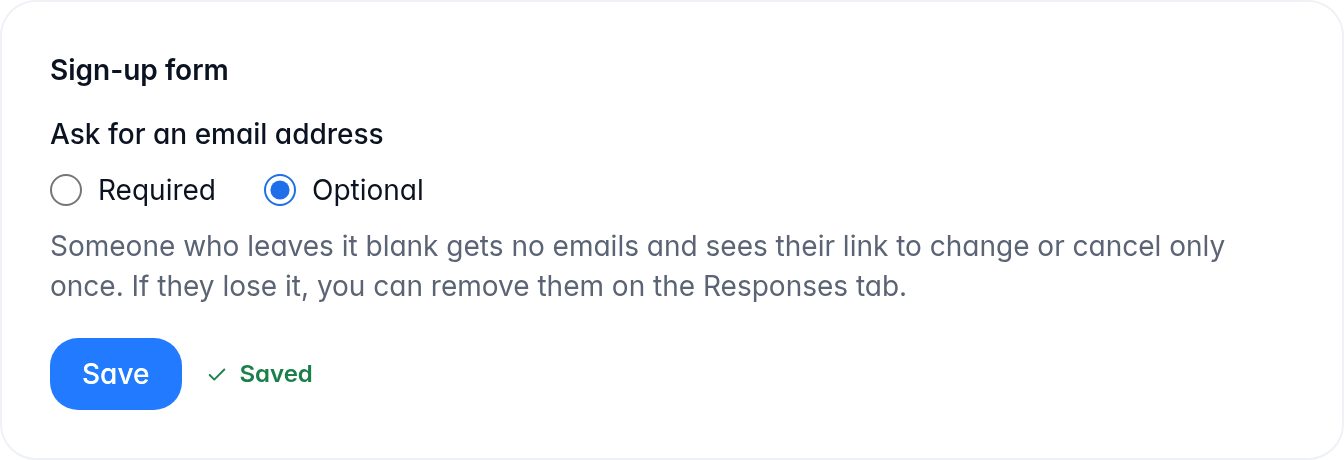
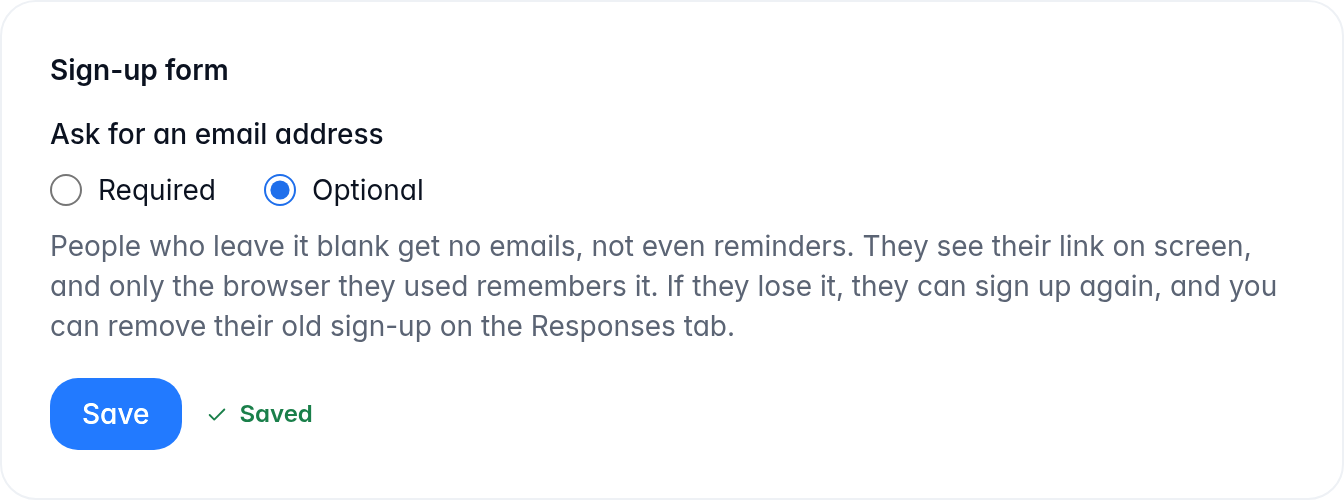
Say what to do about a lost link, and refuse in words that fit
Fixes from the whole-stack review.

- The Settings tab's help said people without an email see their link
  "only once", and offered only removing them. It now says they see it on
  screen and only that browser remembers it, and that if they lose it they
  can sign up again while the organizer removes the old sign-up.
- The help page says the same, and says to remove the old sign-up first
  when the slot is full. Its walkthrough opens the Responses tab, and the
  Settings screenshot is re-taken for the longer help text.
- A viewer was told "You no longer have edit access", though they never had
  it. Both tabs now say "You don't have edit access."
- Delete on the Settings tab showed the service's own message ("signup not
  found") while Save on the same tab used plain words. It maps the refusal
  by its code the same way. A viewer's Delete still throws; that is #390.

Claude-Session: https://claude.ai/code/session_0159b8Nfy3w7F8BVwvn37Fc3

diff --git a/src/app/app/(chrome)/signups/[id]/actions.db.test.ts b/src/app/app/(chrome)/signups/[id]/actions.db.test.ts
@@ -9,7 +9,7 @@ import { workspaces } from '@/db/schema/workspaces';
 import { makeId } from '@/lib/ids';
 import type { Actor } from '@/lib/policy';
 import { createSignup } from '@/services/signups';
-import { setRequireEmailAction } from './actions';
+import { deleteSignupAction, setRequireEmailAction } from './actions';
 
 // The action reads the organizer from the session cookie. Tests hand it one
 // directly instead of going through Auth.js.
@@ -33,16 +33,21 @@ vi.mock('next/navigation', () => ({
 const revalidatePath = vi.hoisted(() => vi.fn());
 vi.mock('next/cache', () => ({ revalidatePath }));
 
-async function submit(signupId: string, choice: 'required' | 'optional'): Promise<string> {
-  const form = new FormData();
-  form.set('requireEmail', choice);
+/** Where an action sends the organizer when it ends. */
+async function redirectOf(action: () => Promise<unknown>): Promise<string> {
   try {
-    await setRequireEmailAction(signupId, form);
+    await action();
   } catch (e) {
     if (e instanceof Redirected) return e.url;
     throw e;
   }
   throw new Error('the action did not redirect');
+}
+
+async function submit(signupId: string, choice: 'required' | 'optional'): Promise<string> {
+  const form = new FormData();
+  form.set('requireEmail', choice);
+  return redirectOf(() => setRequireEmailAction(signupId, form));
 }
 
 describe('setRequireEmailAction (db)', () => {
@@ -140,7 +145,7 @@ describe('setRequireEmailAction (db)', () => {
     session.actor = viewer;
     const url = await submit(signupId, 'required');
     expect(url).toBe(
-      `/app/signups/${signupId}/settings?error=${encodeURIComponent('You no longer have edit access.')}`,
+      `/app/signups/${signupId}/settings?error=${encodeURIComponent('You don’t have edit access.')}`,
     );
     expect(url).not.toMatch(/saved|cannot%20modify/);
     expect(await stored()).toEqual(before);
@@ -154,5 +159,23 @@ describe('setRequireEmailAction (db)', () => {
       `/app/signups/sig_nope/settings?error=${encodeURIComponent('No longer available.')}`,
     );
     expect(revalidatePath).not.toHaveBeenCalled();
+  });
+});
+
+// The same tab's Delete, whose refusal reads like Save's.
+describe('deleteSignupAction (db)', () => {
+  it('says a signup that is gone is no longer available, not the service text', async () => {
+    session.actor = {
+      kind: 'organizer',
+      id: makeId('org'),
+      email: 'pat@example.test',
+      workspaceIds: [],
+      workspaceRoles: {},
+    };
+    const url = await redirectOf(() => deleteSignupAction('sig_nope'));
+    expect(url).toBe(
+      `/app/signups/sig_nope/settings?error=${encodeURIComponent('No longer available.')}`,
+    );
+    expect(url).not.toMatch(/signup%20not%20found/);
   });
 });

diff --git a/tests/e2e/help/create-and-publish-a-signup.spec.ts b/tests/e2e/help/create-and-publish-a-signup.spec.ts
@@ -199,7 +199,7 @@ test.describe('help: create and publish your first signup', () => {
     await expect(ask.getByRole('radio', { name: UI.emailOptional })).toBeChecked();
     await shot(page, form, 'email-setting');
 
-    // Someone who leaves it blank gets their link once, and no email.
+    // Someone who leaves it blank sees their link on screen, and no email.
     const blank = await browser.newPage();
     await blank.goto(`/s/${signup.slug}`);
     await blank.getByRole('button', { name: signUp }).click();
@@ -216,6 +216,11 @@ test.describe('help: create and publish your first signup', () => {
       blank.getByRole('link', { name: /^Edit your signup for Fruit and water/ }),
     ).toBeVisible();
     await blank.close();
+
+    // Sam's sign-up is on the Responses tab, where a lost link's old sign-up
+    // is removed.
+    await page.getByRole('tab', { name: UI.responses }).click();
+    await expect(page.getByRole('cell', { name: 'Sam Example' })).toBeVisible();
 
     // Back to Required: new sign-ups are asked, and Sam keeps the spot.
     await page.goto(`/app/signups/${signup.id}/settings`);

diff --git a/src/help/articles/create-and-publish-a-signup.tsx b/src/help/articles/create-and-publish-a-signup.tsx
@@ -246,12 +246,17 @@ export function CreateAndPublishASignup() {
               src="/help/create-and-publish-a-signup/email-setting.png"
               alt="The Sign-up form settings, with Optional chosen for Ask for an email address, and Saved next to the Save button."
               width={672}
-              height={230}
+              height={250}
             />
           </Step>
         </Steps>
         <p>
           On your signup, the email box now says <Ui>{UI.emailBoxOptional}</Ui>.
+        </p>
+        <p>
+          If someone who left it blank loses their link, ask them to sign up again. Then remove
+          their old sign-up on the <Ui>{UI.responses}</Ui> tab. If their slot is full, remove the
+          old one first, so there is room.
         </p>
         <p>
           You can switch back to <Ui>{UI.emailRequired}</Ui> later. Only people who sign up after

diff --git a/src/components/build-shared/SaveStatus.test.tsx b/src/components/build-shared/SaveStatus.test.tsx
@@ -1,0 +1,21 @@
+// @vitest-environment jsdom
+
+import '@testing-library/jest-dom/vitest';
+import { describe, expect, it } from 'vitest';
+import { render, screen } from '@testing-library/react';
+import { SaveStatus } from './SaveStatus';
+
+describe('<SaveStatus />', () => {
+  // A viewer never had edit access, so nothing says they lost it.
+  it('tells a viewer whose save was refused that they have no edit access', () => {
+    render(<SaveStatus status={{ kind: 'error', code: 'forbidden' }} />);
+    expect(screen.getByRole('status')).toHaveTextContent('You don’t have edit access.');
+  });
+
+  it('shows a message the save brought with it instead', () => {
+    render(
+      <SaveStatus status={{ kind: 'error', code: 'conflict', message: 'Reload to see latest.' }} />,
+    );
+    expect(screen.getByRole('status')).toHaveTextContent('Reload to see latest.');
+  });
+});

diff --git a/src/app/app/(chrome)/signups/[id]/settings/page.tsx b/src/app/app/(chrome)/signups/[id]/settings/page.tsx
@@ -83,8 +83,9 @@ export default async function SettingsTab({ params, searchParams }: PageParams) 
               </label>
             </div>
             <p id="require-email-help" className="mt-2 text-sm text-ink-muted">
-              Someone who leaves it blank gets no emails and sees their link to change or cancel
-              only once. If they lose it, you can remove them on the Responses tab.
+              People who leave it blank get no emails, not even reminders. They see their link on
+              screen, and only the browser they used remembers it. If they lose it, they can sign up
+              again, and you can remove their old sign-up on the Responses tab.
             </p>
           </fieldset>
           <div className="flex flex-wrap items-center gap-3">

diff --git a/src/app/app/(chrome)/signups/[id]/actions.ts b/src/app/app/(chrome)/signups/[id]/actions.ts
@@ -62,9 +62,10 @@ export async function deleteSignupAction(signupId: string) {
   const actor = await requireActor();
   const result = await deleteSignup(getDb(), actor, signupId);
   if (!result.ok) {
-    redirect(
-      `/app/signups/${signupId}/settings?error=${encodeURIComponent(result.error.message)}`,
-    );
+    // In plain words by its code, as Save on the same tab is. A viewer's
+    // refusal is thrown, not returned, and is not caught here.
+    const message = SAVE_ERROR_MESSAGE[result.error.code];
+    redirect(`/app/signups/${signupId}/settings?error=${encodeURIComponent(message)}`);
   }
   // Bust any open tab on the deleted signup so the next interaction shows the
   // organizer "signup not found" state instead of a stale cached layout.

diff --git a/src/components/ui/save-notice.tsx b/src/components/ui/save-notice.tsx
@@ -4,10 +4,11 @@ import type { ErrorCode } from '@/lib/errors';
 /**
  * What an organizer reads when a save is refused, by error code. The service's
  * own message is written for developers ("your role cannot modify this
- * workspace"), so the Build tab and the Settings tab both show these instead.
+ * workspace"), so the Build tab and the Settings tab, Delete included, show
+ * these instead.
  */
 export const SAVE_ERROR_MESSAGE: Record<ErrorCode, string> = {
-  forbidden: 'You no longer have edit access.',
+  forbidden: 'You don’t have edit access.',
   unauthorized: 'Sign in again to save.',
   conflict: 'Reload to see the latest changes.',
   capacity_full: 'Slot is full.',

diff --git a/src/help/articles/create-and-publish-a-signup.ui.ts b/src/help/articles/create-and-publish-a-signup.ui.ts
@@ -50,4 +50,6 @@ export const UI = {
   saved: 'Saved',
   // The email box on the signup page once it is optional.
   emailBoxOptional: 'Email (optional)',
+  // The tab that lists who signed up.
+  responses: 'Responses',
 } as const;

diff --git a/CHANGELOG.md b/CHANGELOG.md
@@ -15,7 +15,7 @@ All notable changes to OpenSignup are documented here. Format follows [Keep a Ch
 - Reminder emails the day before a dated slot, via pg-boss.
 - Pluggable email transport: console, SMTP, Resend.
 - AGPL-3.0 license.
-- Organizers can let participants sign up without an email (#378). The signup's `requireEmail` setting, on by default, is set on the Settings tab, in a new "Sign-up form" section: "Ask for an email address", Required or Optional, then Save. The AI connector's `update_signup` tool and `PATCH /api/signups/[id]` can set it too. A viewer is refused, and the tab says so in the same plain words as the Build tab. With it off, the sign-up form's Email box says "(optional)" and starts blank, even for someone this browser remembers. Its help says what an email brings (the link, and a reminder only where that slot will get one) and to save the link without one. Someone who leaves it blank gets no confirmation or reminder emails. Their link to change or cancel is not emailed: the confirmation screen shows it, says to save it and offers Copy link in place of Share link, which on a phone invited them to post it, and the `os_commit` cookie keeps it in that browser. If the organizer turns it back on after the page loaded, the refused blank email turns the box required. In `POST /api/slots/[id]/commitments`, a blank, whitespace-only, null or missing `email` now means none: a signup that requires one refuses it with `invalid_input` on `email`, and one that doesn't always adds a new participant, as there is nothing to find them by. Turning the setting back on asks only new sign-ups: anyone already signed up without an email keeps their spot and can still change or move it. `get_signup` and the other connector tools now show `requireEmail`; `update_signup` advertises no default for any setting, so a client that fills in defaults cannot turn it back on with an unrelated change. The privacy and cookies pages and the help pages say what happens without an email, and the help page "Create and publish your first signup" explains the setting. The "Sorry, this link isn’t working" page tells everyone to contact the organizer, and to try their confirmation email's link only if they got one.
+- Organizers can let participants sign up without an email (#378). The signup's `requireEmail` setting, on by default, is set on the Settings tab, in a new "Sign-up form" section: "Ask for an email address", Required or Optional, then Save. The AI connector's `update_signup` tool and `PATCH /api/signups/[id]` can set it too. The section says that people who leave the email blank get no emails, that only the browser they used remembers their link, and that someone who loses it can sign up again while the organizer removes the old sign-up on the Responses tab. A viewer is refused with "You don’t have edit access.", the words the Build tab now uses too in place of "You no longer have edit access.", and a refused Delete on the same tab is put in the same plain words instead of the service's own message. With it off, the sign-up form's Email box says "(optional)" and starts blank, even for someone this browser remembers. Its help says what an email brings (the link, and a reminder only where that slot will get one) and to save the link without one. Someone who leaves it blank gets no confirmation or reminder emails. Their link to change or cancel is not emailed: the confirmation screen shows it, says to save it and offers Copy link in place of Share link, which on a phone invited them to post it, and the `os_commit` cookie keeps it in that browser. If the organizer turns it back on after the page loaded, the refused blank email turns the box required. In `POST /api/slots/[id]/commitments`, a blank, whitespace-only, null or missing `email` now means none: a signup that requires one refuses it with `invalid_input` on `email`, and one that doesn't always adds a new participant, as there is nothing to find them by. Turning the setting back on asks only new sign-ups: anyone already signed up without an email keeps their spot and can still change or move it. `get_signup` and the other connector tools now show `requireEmail`; `update_signup` advertises no default for any setting, so a client that fills in defaults cannot turn it back on with an unrelated change. The privacy and cookies pages and the help pages say what happens without an email, and the help page "Create and publish your first signup" explains the setting and what to do when someone loses their link. The "Sorry, this link isn’t working" page tells everyone to contact the organizer, and to try their confirmation email's link only if they got one.
 
 ### Changed
 - Reminders are set on the date field itself: the field editor on the Build tab has a "Send a reminder email before this date" checkbox, one date field per signup carries it (a bell marks it in the fields list), and the Settings tab's reminders card is gone.
